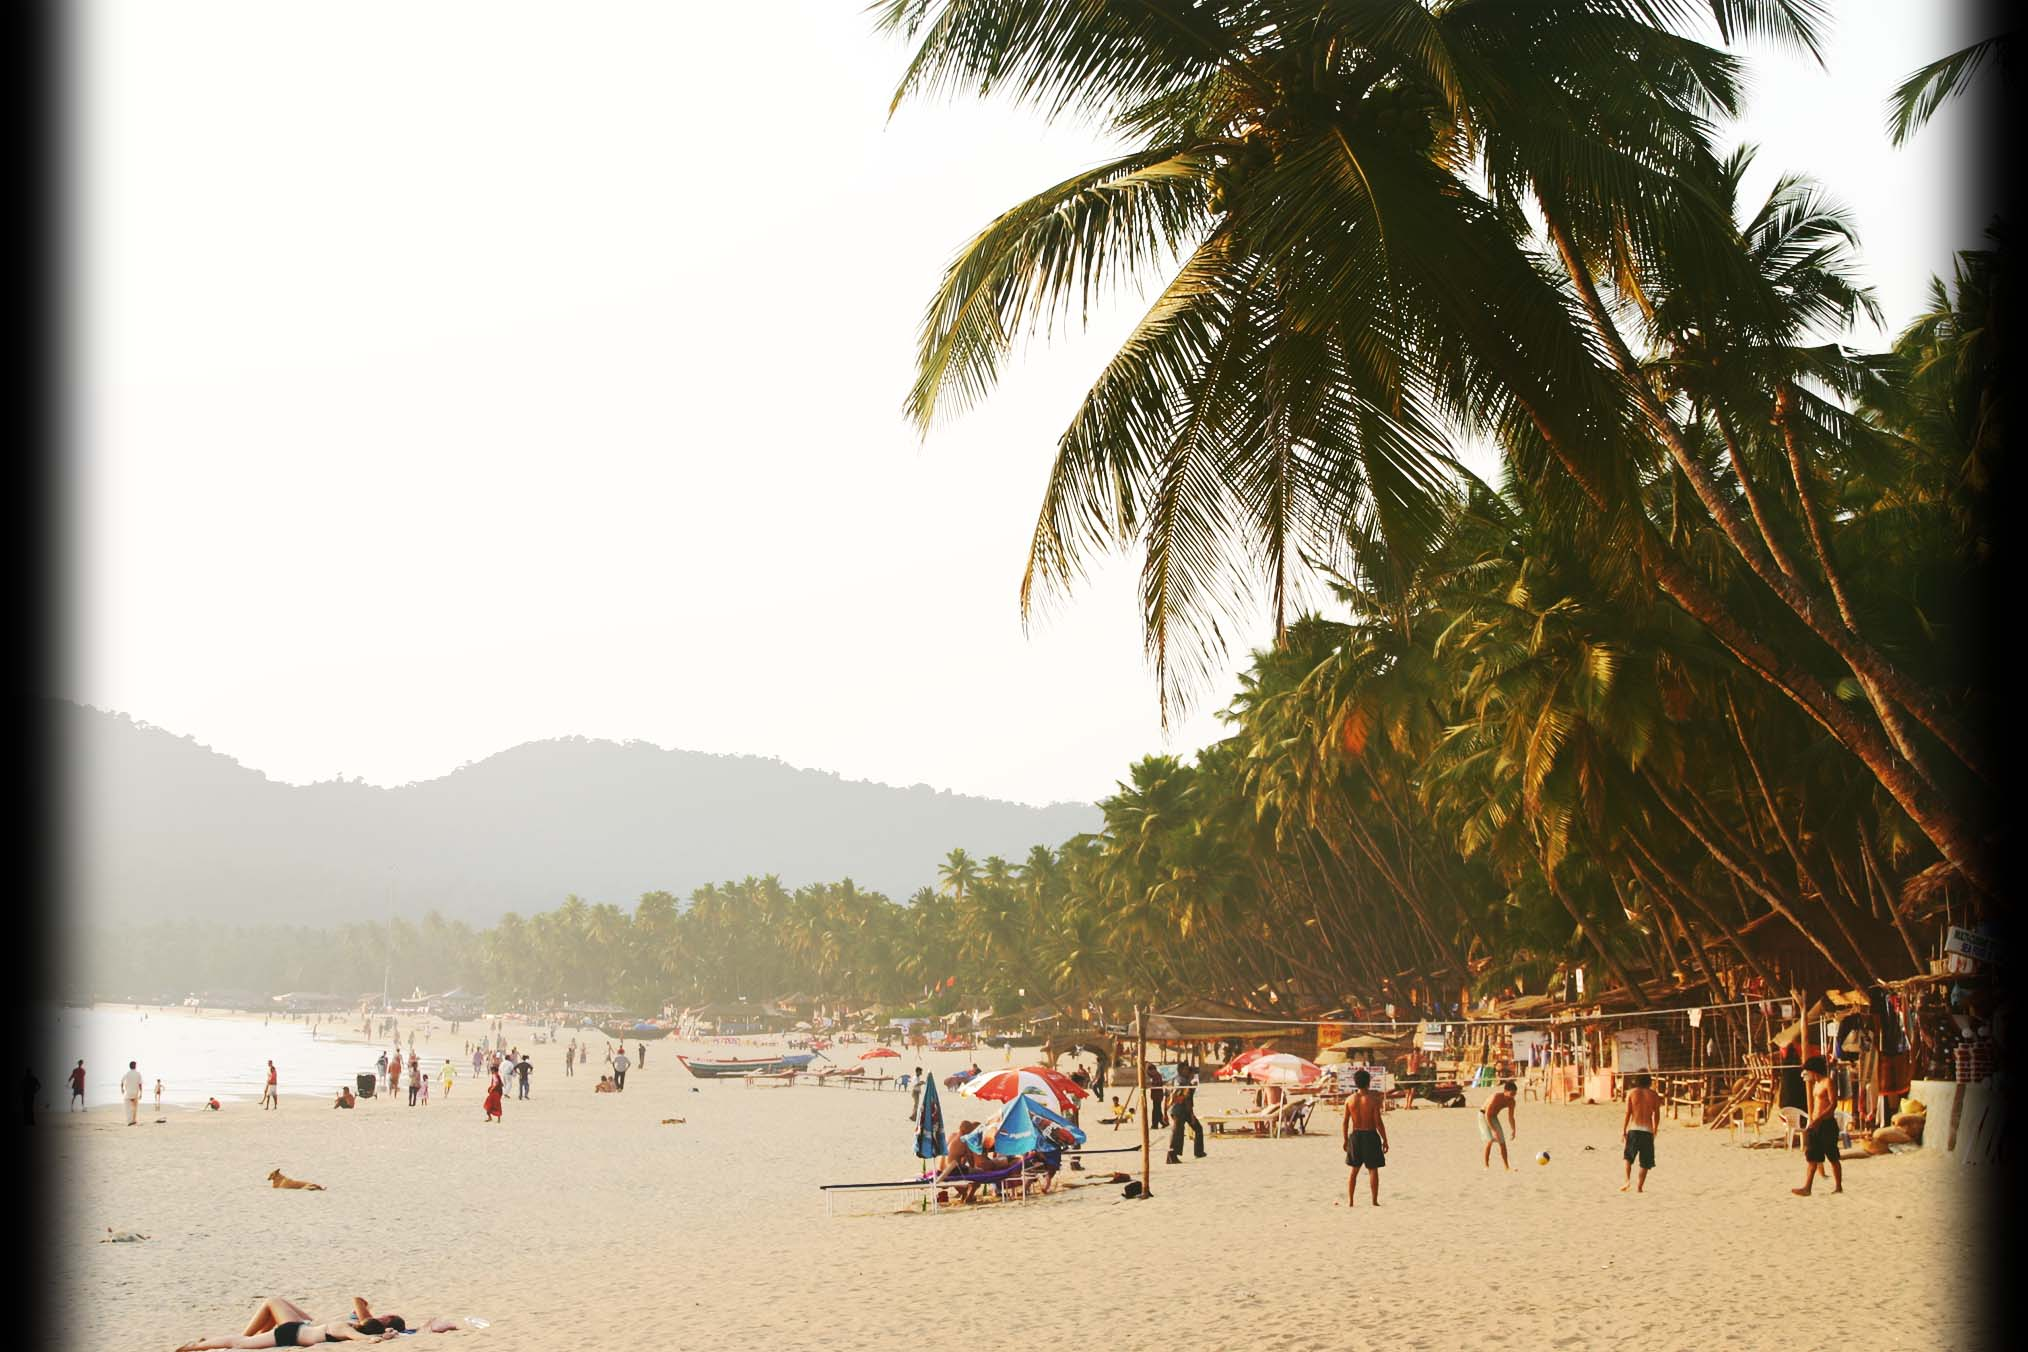
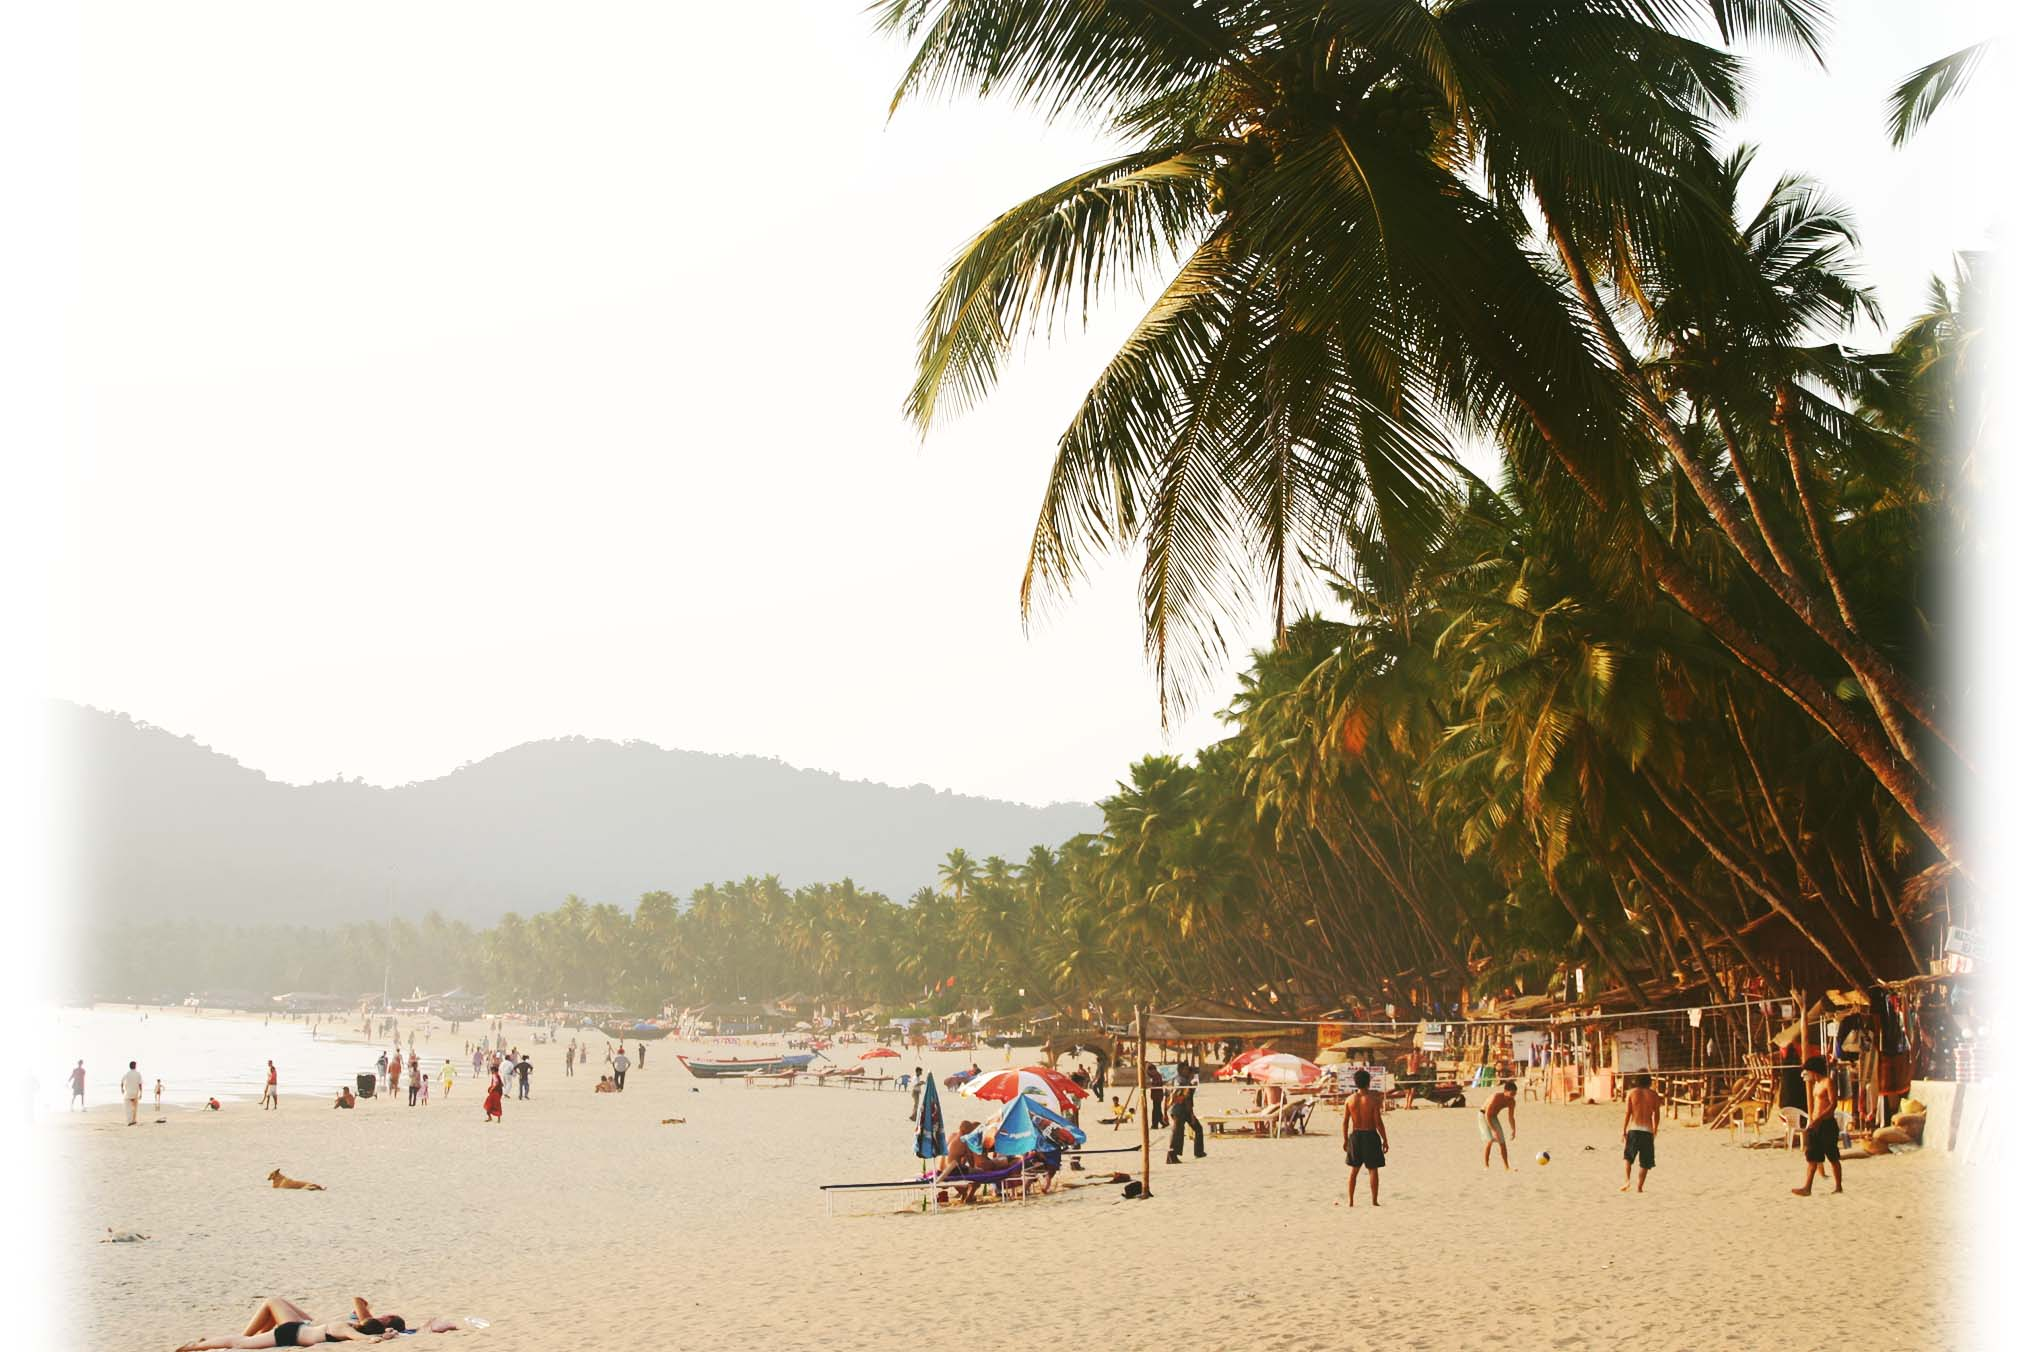
Recreated beach photos with white background in mind

Changed region(s): [[0.932, 0.0, 1.0, 1.0], [0.0, 0.0, 0.0621, 1.0]]

diff --git a/public/stylesheets/style.less b/public/stylesheets/style.less
@@ -268,8 +268,8 @@ section.where {
 }
 
 section.goa-blurred {
-	@box-color: rgb(223,206,179);
-	background-color: #000;
+	@box-color: #E9CEB3;
+	background-color: #fff;
 	background-position: center bottom;
 	background-repeat: no-repeat;
 	background-image: url("../images/goa_blurred.jpg");
@@ -309,7 +309,7 @@ section.goa-blurred {
 section.goa {
 	height: 90%;
 	min-height: 400px;
-	background-color: #000;
+	background-color: #fff;
 	background-position: center bottom;
 	background-repeat: no-repeat;
 	background-image: url("../images/goa.jpg");
